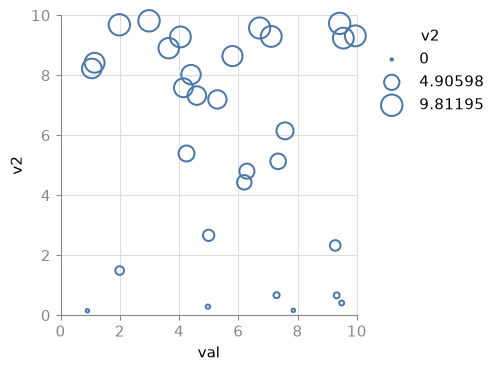
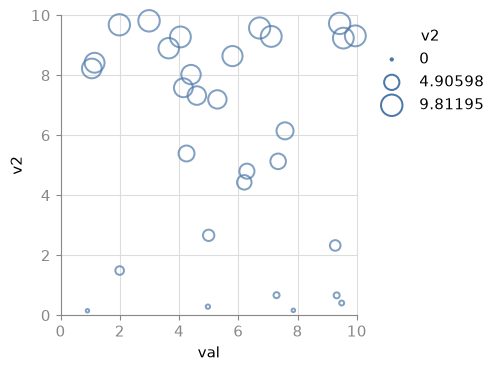
Match VL defaults: symbol opacity, band-derived plot size, histogram bin gaps
- draw_symbol now honors the compiled opacity encode entry (VL default 0.7
  for point/circle/square), passed as alpha; literal values only.
- Band-scale axes sizing uses Vega's exact bandspace formula and resolves
  grouped-chart x_step from the offset scale; the 160px axes floor is gone,
  so default bar charts get VL's intentional 20px-per-category width.
- Binned bars honor the compiled binSpacing pixel offset (1px gaps between
  histogram bins), converted px->data against the target axes size, which
  is now computed once per render and threaded through draw_marks.
- Refresh the README comparison images affected by the above.

diff --git a/src/mplaltair/_marks.py b/src/mplaltair/_marks.py
@@ -3,6 +3,7 @@ from __future__ import annotations
 
 import itertools
 import math
+import re
 import warnings
 from typing import Any, Iterator, NamedTuple
 
@@ -85,11 +86,14 @@ def walk_drawable_marks(marks: list[dict]) -> Iterator[DrawableMark]:
 def resolve_channel(entry: dict, row: dict, scales: dict):
     """Resolve one Vega encode channel entry to a data-space value for a single row.
 
-    A nested `offset` sub-entry (band-group offsets, histogram px-nudges) is
+    A nested `offset` sub-entry (band-group offsets, bin-spacing px-nudges) is
     ignored here -- band-x/band-y bar drawing resolves field-valued offsets
-    itself (see `_position_with_offset_resolver`); signal-valued offsets are
-    cosmetic pixel nudges from Vega's rendering path that we don't reproduce
-    (not pixel-fidelity chasing, by design -- no warning, this is expected).
+    itself (see `_position_with_offset_resolver`), and `_draw_bar_linear`
+    resolves the signal-valued compiled bin-spacing offset on a histogram's
+    x/x2 (or y/y2) edges itself (see `_bin_gap_offset_data`). Any other
+    signal-valued offset is a cosmetic pixel nudge from Vega's rendering path
+    that we don't reproduce (not pixel-fidelity chasing, by design -- no
+    warning, this is expected).
     """
     if entry is None:
         return None
@@ -140,6 +144,60 @@ def _position_with_offset_resolver(entry: dict | None, scales: dict):
     return resolve
 
 
+# Vega-Lite compiles a binned bar/tick's continuous-axis edges (x/x2 or
+# y/y2) with a per-row pixel `offset` signal that implements `binSpacing`
+# (default 1px) -- shrinking each bin rect by that many px so adjacent bars
+# show a hairline gap. The signal has the shape
+#   `H + (<tiny-bin guard> ? <split-gap math> : E)`
+# where H is a leading constant and E is the ternary's else-branch constant;
+# for any bin far wider than the gap (every realistic histogram) the guard is
+# false and the signal reduces to exactly `H + E` px, so we only need to
+# regex those two constants out, not evaluate the guard/expression. This is a
+# declared shortcut: pathologically thin bins (< ~0.25px wide, i.e. far more
+# bins than the chart has pixels) won't get VL's exact edge-collapse
+# treatment -- not visually distinguishable at that point anyway.
+_BIN_GAP_RE = re.compile(r"^\s*([\d.]+)\s*\+\s*\(.*?\?\s*.*?\s*:\s*(-?[\d.]+)\s*\)\s*$")
+
+
+def _bin_gap_offset_px(signal: str) -> float | None:
+    """The constant px offset a compiled bin-spacing signal reduces to for a
+    normal-width bin, or None if `signal` doesn't match that shape."""
+    m = _BIN_GAP_RE.match(signal)
+    if not m:
+        return None
+    h, e = float(m.group(1)), float(m.group(2))
+    return h + e
+
+
+def _bin_gap_offset_data(entry: dict | None, scale, axis_px: float | None, axis: str) -> float:
+    """Data-space delta for `entry`'s compiled bin-spacing pixel `offset`
+    (0.0 if there is none, or it doesn't match the known shape).
+
+    Converts px -> data units via the scale's domain span over the target
+    axes-box px extent (the same authoritative target `_layout.target_axes_px`
+    hands `finalize_figure_size`, not a post-layout measurement -- see
+    `draw_marks`). Vega's x pixel axis increases left-to-right like mpl's
+    (un-inverted) x data axis, so a +px offset is a +data delta; Vega's y
+    pixel axis increases top-to-bottom while mpl's y data axis (also
+    un-inverted for continuous scales) increases bottom-to-top, so a +px
+    offset there is a -data delta.
+    """
+    offset = entry.get("offset") if entry else None
+    if not offset or "signal" not in offset:
+        return 0.0
+    gap_px = _bin_gap_offset_px(offset["signal"])
+    if not gap_px or scale is None or not axis_px:
+        return 0.0
+    domain = scale.domain
+    if not (isinstance(domain, list) and len(domain) == 2):
+        return 0.0
+    lo, hi = domain
+    if hi == lo:
+        return 0.0
+    data_per_px = (hi - lo) / axis_px
+    return gap_px * data_per_px if axis == "x" else -gap_px * data_per_px
+
+
 def _px_to_pt_area(px_area: float, dpi: float) -> float:
     """Vega symbol `size` is the true area (px^2) of a circular glyph, d3-style
     (radius = sqrt(size/pi), so diameter = 2*sqrt(size/pi)). mpl scatter `s` is
@@ -174,6 +232,10 @@ def draw_symbol(ax, mark: dict, cspec, scales: dict, registry: dict, dpi: float)
     fill_entry = update.get("fill")
     stroke_entry = update.get("stroke")
     size_entry = update.get("size")
+    opacity_entry = update.get("opacity")
+    # Only a literal {"value": N} opacity is handled; a field/scale-valued
+    # opacity channel is silently dropped (declared scope limit).
+    alpha = opacity_entry["value"] if opacity_entry and "value" in opacity_entry else None
 
     fill_scale = _channel_scale(fill_entry, scales)
     stroke_scale = _channel_scale(stroke_entry, scales)
@@ -223,7 +285,7 @@ def draw_symbol(ax, mark: dict, cspec, scales: dict, registry: dict, dpi: float)
             ys = [resolve_channel(y_entry, r, scales) for r in grows]
             s = sizes_for(grows)
             color = color_scale.color_for(cat)
-            kwargs: dict[str, Any] = dict(s=s, label=str(cat))
+            kwargs: dict[str, Any] = dict(s=s, label=str(cat), alpha=alpha)
             if color_is_fill:
                 kwargs["c"] = color
                 if stroke_literal is not None:
@@ -243,11 +305,11 @@ def draw_symbol(ax, mark: dict, cspec, scales: dict, registry: dict, dpi: float)
         vals = [r.get(color_field) for r in rows]
         s = sizes_for(rows)
         if color_is_fill:
-            ax.scatter(xs, ys, s=s, c=vals, cmap=cmap, norm=norm)
+            ax.scatter(xs, ys, s=s, c=vals, cmap=cmap, norm=norm, alpha=alpha)
         else:
             edge_colors = cmap(norm(np.asarray(vals)))
             ax.scatter(xs, ys, s=s, edgecolors=edge_colors, linewidths=default_edge_lw,
-                       c=fill_literal if fill_literal is not None else "none")
+                       c=fill_literal if fill_literal is not None else "none", alpha=alpha)
         # No per-point legend handles for a continuous scale; _guides builds a
         # colorbar directly from the scale (looked up by name), not the registry.
     else:
@@ -255,7 +317,7 @@ def draw_symbol(ax, mark: dict, cspec, scales: dict, registry: dict, dpi: float)
         ys = [resolve_channel(y_entry, r, scales) for r in rows]
         s = sizes_for(rows)
         lw = default_edge_lw if stroke_literal is not None else None
-        ax.scatter(xs, ys, s=s, c=fill_literal, edgecolors=stroke_literal, linewidths=lw)
+        ax.scatter(xs, ys, s=s, c=fill_literal, edgecolors=stroke_literal, linewidths=lw, alpha=alpha)
 
     return symbol_style
 
@@ -526,28 +588,44 @@ def _draw_bar_band(ax, rows: list[dict], update: dict, scales: dict, band_scale,
         bar(bands, extents, **{base_kwarg: val2s, size_kwarg: size}, color=fill_val)
 
 
-def _draw_bar_linear(ax, rows: list[dict], update: dict, scales: dict) -> None:
-    """Histogram / linear-x rect: x/x2 are scaled bin-edge fields, y2 a scaled-value 0."""
+def _draw_bar_linear(ax, rows: list[dict], update: dict, scales: dict, x_scale, y_scale,
+                      axes_px: tuple[float, float]) -> None:
+    """Histogram / linear-x rect: x/x2 (or y/y2, for a horizontal histogram)
+    are scaled bin-edge fields, the other pair a scaled-value 0. Each edge
+    may carry a compiled bin-spacing pixel `offset` (see
+    `_bin_gap_offset_data`) that we add in as a data-space delta so adjacent
+    bins render with VL's default 1px gap instead of flush."""
     x_entry, x2_entry = update.get("x"), update.get("x2")
     y_entry, y2_entry = update.get("y"), update.get("y2")
+    axes_w_px, axes_h_px = axes_px
 
     x_pos = _position_with_offset_resolver(x_entry, scales)
     x2_pos = _position_with_offset_resolver(x2_entry, scales) if x2_entry else None
 
-    xs = [x_pos(r) for r in rows]
-    x2s = [x2_pos(r) for r in rows] if x2_pos else [0.0] * len(rows)
-    ys = [resolve_channel(y_entry, r, scales) for r in rows]
-    y2s = [resolve_channel(y2_entry, r, scales) for r in rows] if y2_entry else [0.0] * len(rows)
+    x_gap = _bin_gap_offset_data(x_entry, x_scale, axes_w_px, "x")
+    x2_gap = _bin_gap_offset_data(x2_entry, x_scale, axes_w_px, "x")
+    y_gap = _bin_gap_offset_data(y_entry, y_scale, axes_h_px, "y")
+    y2_gap = _bin_gap_offset_data(y2_entry, y_scale, axes_h_px, "y")
+
+    xs = [x_pos(r) + x_gap for r in rows]
+    x2s = [x2_pos(r) + x2_gap for r in rows] if x2_pos else [0.0] * len(rows)
+    # y/y2 use plain resolve_channel (not the offset-resolver): in the
+    # not-band/not-band path (this function) a field-valued offset can't
+    # occur, so the offset-resolving generality would be dead code here.
+    ys = [resolve_channel(y_entry, r, scales) + y_gap for r in rows]
+    y2s = [resolve_channel(y2_entry, r, scales) + y2_gap for r in rows] if y2_entry else [0.0] * len(rows)
 
     lefts = [min(a, b) for a, b in zip(xs, x2s)]
     widths = [abs(b - a) for a, b in zip(xs, x2s)]
-    heights = [y - y2 for y, y2 in zip(ys, y2s)]
+    bottoms = [min(a, b) for a, b in zip(ys, y2s)]
+    heights = [abs(a - b) for a, b in zip(ys, y2s)]
 
     fill_val = _literal_color(update.get("fill"))
-    ax.bar(lefts, heights, width=widths, bottom=y2s, align="edge", color=fill_val)
+    ax.bar(lefts, heights, width=widths, bottom=bottoms, align="edge", color=fill_val)
 
 
-def draw_rect(ax, mark: dict, cspec, scales: dict, registry: dict, dpi: float) -> None:
+def draw_rect(ax, mark: dict, cspec, scales: dict, registry: dict, dpi: float,
+              axes_px: tuple[float, float]) -> None:
     update = mark.get("encode", {}).get("update", {})
     dataset_name = mark.get("from", {}).get("data")
     rows = cspec.datasets.get(dataset_name, [])
@@ -575,15 +653,28 @@ def draw_rect(ax, mark: dict, cspec, scales: dict, registry: dict, dpi: float) -
     elif y_is_band and not x_is_band:
         _draw_bar_band(ax, rows, update, scales, y_scale, fill_field, fill_scale, registry, horizontal=True)
     elif not x_is_band and not y_is_band:
-        _draw_bar_linear(ax, rows, update, scales)
+        _draw_bar_linear(ax, rows, update, scales, x_scale, y_scale, axes_px)
     else:
         warnings.warn("rect mark with both x and y band scales not supported; skipping")
 
 
-def draw_marks(ax, cspec, scales: dict) -> MarkDrawResult:
+def draw_marks(ax, cspec, scales: dict, axes_px: tuple[float, float]) -> MarkDrawResult:
     """Draw all drawable marks; returns the legend-handle registry
     (`{scale_name: [(handle, label)]}`) plus the size-legend swatch style
-    recorded by a symbol mark's size scale, if any."""
+    recorded by a symbol mark's size scale, if any.
+
+    `axes_px` is the caller's precomputed `_layout.target_axes_px(cspec,
+    scales)` -- the authoritative target axes-box px size (Vega's own
+    width/height, or the exact band-derived size), not a measurement of the
+    actual canvas, which isn't converged to that target until
+    `finalize_figure_size` runs after all marks are drawn. Used to convert
+    compiled bin-spacing pixel offsets (see `_bin_gap_offset_data`) to data
+    units; safe to use ahead of that convergence because it and
+    `finalize_figure_size`'s target are the same pure function of
+    `cspec`/`scales`, not a render measurement. The caller computes it once
+    and shares it across figure sizing and mark drawing rather than
+    recomputing it here.
+    """
     registry: dict[str, list] = {}
     symbol_style: dict | None = None
     dpi = ax.figure.dpi
@@ -603,7 +694,7 @@ def draw_marks(ax, cspec, scales: dict) -> MarkDrawResult:
             draw_area(ax, mark, facet, cspec, scales, registry)
         elif mtype == "rect":
             _warn_if_faceted(facet, mtype)
-            draw_rect(ax, mark, cspec, scales, registry, dpi)
+            draw_rect(ax, mark, cspec, scales, registry, dpi, axes_px)
         elif mtype == "rule":
             _warn_if_faceted(facet, mtype)
             draw_rule(ax, mark, cspec, scales, registry)

diff --git a/src/mplaltair/_layout.py b/src/mplaltair/_layout.py
@@ -6,37 +6,72 @@ _FALLBACK_W, _FALLBACK_H = 400, 300
 _MIN_INCH = 2.2  # floor for the inner-plot rect; below this, labels/legends clip
 
 
-def _band_size_px(cspec, scale, axis: str) -> float | None:
-    """Approximate pixel extent for a band/point-scale-driven axis.
+def _axis_step_px(cspec, scales: dict, scale, axis: str) -> float:
+    """Resolve the `<axis>_step` Vega signal to a px-per-category step.
 
-    Vega derives this from a `<axis>_step` signal + `bandspace()`; we use the
-    simpler `n_cats * step / band_frac` approximation noted in the plan.
+    Usually a literal (`{"name": "x_step", "value": 20}`, Vega's own default).
+    For a grouped/faceted chart (an `xOffset`/`yOffset` sub-scale, e.g.
+    `xOffset="grp:N"`), Vega instead emits a computed `update` signal --
+    `x_step = offsetStep * bandspace(offsetCount, 0, 0) / (1 - x.paddingInner)`,
+    which simplifies to `offsetStep * offsetCount / (1 - paddingInner)` since
+    `bandspace(n, 0, 0) == n` -- and we only see it as an unresolved `update`
+    (no literal `value`) in `cspec.signals`. Re-derive it from the offset
+    scale's own (already-parsed) step/category-count in that case.
     """
+    step = cspec.signals.get(f"{axis}_step")
+    if step is not None:
+        return step
+    offset_name = f"{axis}Offset"
+    offset_scale = scales.get(offset_name)
+    offset_spec = cspec.scales.get(offset_name)
+    if offset_scale and offset_spec and scale is not None and scale.band_frac:
+        offset_step = (offset_spec.get("range") or {}).get("step")
+        n_offset = len(offset_scale.categories or [])
+        if isinstance(offset_step, (int, float)) and n_offset:
+            return offset_step * n_offset / scale.band_frac
+    return 20  # Vega's own default step
+
+
+def _band_size_px(cspec, scales: dict, axis: str) -> float | None:
+    """Exact pixel extent for a band/point-scale-driven axis.
+
+    Vega derives this from a `<axis>_step` signal and
+    `bandspace(count, paddingInner, paddingOuter) = count - paddingInner + 2 * paddingOuter`
+    (see vega-scale's `bandSpace`), then `width/height = bandspace(...) * step`.
+    Reuses the scale's already-resolved paddingInner/paddingOuter (`_scales._band_paddings`)
+    instead of re-deriving them.
+    """
+    scale = scales.get(axis)
     if scale is None or scale.vtype not in ("band", "point") or not scale.categories:
         return None
     n = len(scale.categories)
-    step = cspec.signals.get(f"{axis}_step", 20)
-    band_frac = scale.band_frac or 1.0
-    return n * step / band_frac
-
-
-_MIN_AXES_PX = 160  # floor applied to the TARGET axes-box px, not the figure
+    step = _axis_step_px(cspec, scales, scale, axis)
+    bandspace = n - scale.paddingInner + 2 * scale.paddingOuter
+    return bandspace * step
 
 
 def target_axes_px(cspec, scales: dict | None = None) -> tuple[float, float]:
-    """The target axes-box size (px): Vega's width/height, or a band-count
-    estimate when the spec has no numeric dims, floored to `_MIN_AXES_PX`."""
+    """The target axes-box size (px): Vega's width/height, or an exact
+    band-scale size when the spec has no numeric dims. Both are authoritative
+    (Vega/the band math intentionally sized the axes) and are never floored;
+    when neither is available, `_FALLBACK_W`/`_FALLBACK_H` are generous
+    enough on their own that labels/legends don't clip, so no extra floor
+    is applied."""
     scales = scales or {}
     w = cspec.width
     if w is None:
-        w = _band_size_px(cspec, scales.get("x"), "x") or _FALLBACK_W
+        w = _band_size_px(cspec, scales, "x")
+        if w is None:
+            w = _FALLBACK_W
     h = cspec.height
     if h is None:
-        h = _band_size_px(cspec, scales.get("y"), "y") or _FALLBACK_H
-    return max(w, _MIN_AXES_PX), max(h, _MIN_AXES_PX)
+        h = _band_size_px(cspec, scales, "y")
+        if h is None:
+            h = _FALLBACK_H
+    return w, h
 
 
-def make_figure(cspec, scales: dict | None = None, ax=None):
+def make_figure(cspec, scales: dict | None = None, ax=None, axes_px: tuple[float, float] | None = None):
     """Create (or reuse) a Figure/Axes sized from the spec's plot dims.
 
     Vega width/height describe the INNER plot rect (axis labels/legends live
@@ -45,10 +80,15 @@ def make_figure(cspec, scales: dict | None = None, ax=None):
     layout needs to run at least once to know how much chrome it carves out).
     Here we just pick a starting figsize equal to the target px (a reasonable
     first guess) so `ax=None` callers get a sane initial canvas.
+
+    `axes_px`, if given, is a precomputed `target_axes_px(cspec, scales)` --
+    lets a caller that needs the same value elsewhere (e.g. for `draw_marks`
+    and `finalize_figure_size`) compute it once and share it instead of
+    recomputing it here.
     """
     import matplotlib.pyplot as plt
 
-    w, h = target_axes_px(cspec, scales)
+    w, h = axes_px if axes_px is not None else target_axes_px(cspec, scales)
     fig_w, fig_h = w / _DPI, h / _DPI
     fig_w = max(fig_w, _MIN_INCH)
     fig_h = max(fig_h, _MIN_INCH)
@@ -77,11 +117,10 @@ def finalize_figure_size(fig, ax, target_w_px: float, target_h_px: float, iterat
     the shortfall, and grow the figure by exactly that shortfall. A second
     pass corrects for any small shift in chrome size caused by the first
     resize (e.g. tick label widths changing). Skipped entirely when the
-    caller supplied their own `ax=` -- they own layout in that path.
+    caller supplied their own `ax=` -- they own layout in that path. The
+    caller (`target_axes_px`) is responsible for flooring unknown/degenerate
+    targets; a real Vega/band-derived size is never clamped here.
     """
-    target_w_px = max(target_w_px, _MIN_AXES_PX)
-    target_h_px = max(target_h_px, _MIN_AXES_PX)
-
     for _ in range(iterations):
         fig.canvas.draw()
         bbox = ax.get_window_extent()

diff --git a/src/mplaltair/__init__.py b/src/mplaltair/__init__.py
@@ -62,14 +62,20 @@ def convert(chart_or_vl_dict, ax=None, style: str | None = "vega-lite"):
 
     with _style_context(style):
         scales = build_scales(cspec)
-        fig, ax = make_figure(cspec, scales=scales, ax=ax)
+        # The authoritative target axes-box px size (Vega's own width/height,
+        # or the exact band-derived size); a pure function of cspec/scales,
+        # so it's computed once here and shared by figure sizing (initial
+        # guess + final resize) and mark drawing (px->data conversion for
+        # compiled bin-spacing offsets) rather than recomputed at each site.
+        axes_px = target_axes_px(cspec, scales)
+        fig, ax = make_figure(cspec, scales=scales, ax=ax, axes_px=axes_px)
 
         if "x" in scales:
             apply_position_scale(ax, scales["x"], "x")
         if "y" in scales:
             apply_position_scale(ax, scales["y"], "y")
 
-        registry, symbol_style = draw_marks(ax, cspec, scales)
+        registry, symbol_style = draw_marks(ax, cspec, scales, axes_px)
         apply_axes(ax, cspec, scales)
         apply_legends(fig, ax, cspec, scales, registry, symbol_style)
 
@@ -78,7 +84,7 @@ def convert(chart_or_vl_dict, ax=None, style: str | None = "vega-lite"):
             # the axes box itself (not the whole figure) matches that target
             # -- see `finalize_figure_size`. When the caller supplied `ax`,
             # they own layout and we leave sizing alone.
-            target_w_px, target_h_px = target_axes_px(cspec, scales)
+            target_w_px, target_h_px = axes_px
             finalize_figure_size(fig, ax, target_w_px, target_h_px)
 
         # Must run AFTER any figure resize: mpl's auto locators recompute